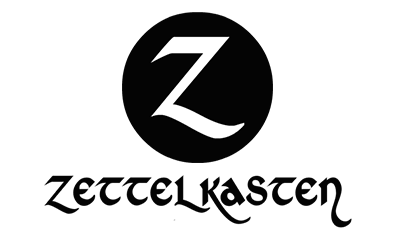
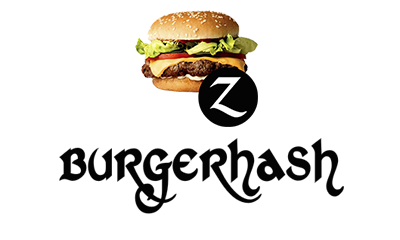
Update/Bugfixes/Designchanges
added bugfixed, changed graphics to show Burgerhash and not Zettelkasten (for example Splashscreen). Removed the popupgraphic (since it has now been tested) etc

Changed region(s): [[0.12, 0.0292, 0.9, 0.9625], [0.09, 0.7583, 0.12, 0.7875]]

diff --git a/src/main.cpp b/src/main.cpp
@@ -1718,15 +1718,15 @@ bool CBlock::CheckProofOfWork() const
     if (nHeight <= getSecondHardforkBlock() || nHeight < Checkpoints::LastCheckPoint())
         return true;
 
-    //only do this test if block height <= nBestHeight+2, so that SDKPGAB validation can take place
-    if(nHeight <= nBestHeight+2){
-    CBufferStream<MAX_BLOCK_SIZE> PoKData(SER_GETHASH, 0);
-    GetPoKData(PoKData);
+	//only do this test if block height <= nBestHeight+2, so that SDKPGAB validation can take place
+	if(nHeight <= nBestHeight+2){
+		CBufferStream<MAX_BLOCK_SIZE> PoKData(SER_GETHASH, 0);
+		GetPoKData(PoKData);
 
-    if (HashPoKData(PoKData) != hashWholeBlock)
-        return error("CheckProofOfWork() : whole block hash mismatch");
-
-    }
+		if (HashPoKData(PoKData) != hashWholeBlock){
+			return error("CheckProofOfWork() : whole block hash mismatch");
+		}
+	}
 
     return true;
 }
@@ -2620,10 +2620,10 @@ bool CBlock::CheckBlock(CValidationState &state, bool fCheckPOW, bool fCheckMerk
     // Check proof of work matches claimed amount
     //only do this test if block height <= nBestHeight+2, so that SDKPGAB validation can take place
     if(nHeight <= nBestHeight+2){
-    if (fCheckPOW && !CheckProofOfWork()){
-        //reducing punishment from default 50 to 5
-        return state.DoS(5, error("CheckBlock() : proof of work failed"));
-    }
+		if (fCheckPOW && !CheckProofOfWork()){
+			//reducing punishment from default 50 to 5
+			return state.DoS(5, error("CheckBlock() : proof of work failed"));
+		}
     }
 
     // Check timestamp

diff --git a/src/leveldb/port/atomic_pointer.h b/src/leveldb/port/atomic_pointer.h
@@ -36,6 +36,8 @@
 #define ARCH_CPU_X86_FAMILY 1
 #elif defined(__ARMEL__)
 #define ARCH_CPU_ARM_FAMILY 1
+#elif defined(__aarch64__)
+#define ARCH_CPU_ARM64_FAMILY 1
 #elif defined(__ppc__) || defined(__powerpc__) || defined(__powerpc64__)
 #define ARCH_CPU_PPC_FAMILY 1
 #endif
@@ -93,6 +95,13 @@ inline void MemoryBarrier() {
 }
 #define LEVELDB_HAVE_MEMORY_BARRIER
 
+// ARM64
+#elif defined(ARCH_CPU_ARM64_FAMILY)
+inline void MemoryBarrier() {
+  asm volatile("dmb sy" : : : "memory");
+}
+#define LEVELDB_HAVE_MEMORY_BARRIER
+  
 // PPC
 #elif defined(ARCH_CPU_PPC_FAMILY) && defined(__GNUC__)
 inline void MemoryBarrier() {
@@ -216,6 +225,7 @@ class AtomicPointer {
 #undef LEVELDB_HAVE_MEMORY_BARRIER
 #undef ARCH_CPU_X86_FAMILY
 #undef ARCH_CPU_ARM_FAMILY
+#undef ARCH_CPU_ARM64_FAMILY
 #undef ARCH_CPU_PPC_FAMILY
 
 }  // namespace port

diff --git a/src/qt/miningpage.cpp b/src/qt/miningpage.cpp
@@ -79,6 +79,7 @@ void MiningPage::restartMining(bool fGenerate)
     mapArgs["-genproclimit"] = QString("%1").arg(nThreads).toUtf8().data();
 
     // unlock wallet before mining
+#ifndef __linux__
     if (fGenerate && !hasMiningprivkey && !unlockContext.get())
     {
         this->unlockContext.reset(new WalletModel::UnlockContext(model->requestUnlock()));
@@ -88,6 +89,7 @@ void MiningPage::restartMining(bool fGenerate)
             return;
         }
     }
+#endif
 
     json_spirit::Array Args;
     Args.push_back(fGenerate);

diff --git a/src/clientversion.h b/src/clientversion.h
@@ -8,8 +8,8 @@
 // These need to be macros, as version.cpp's and bitcoin-qt.rc's voodoo requires it
 #define CLIENT_VERSION_MAJOR       0
 #define CLIENT_VERSION_MINOR       9
-#define CLIENT_VERSION_REVISION    16
-#define CLIENT_VERSION_BUILD       4
+#define CLIENT_VERSION_REVISION    17
+#define CLIENT_VERSION_BUILD       1
 
 // Set to true for release, false for prerelease or test build
 #define CLIENT_VERSION_IS_RELEASE  true

diff --git a/src/version.cpp b/src/version.cpp
@@ -36,8 +36,8 @@ const std::string CLIENT_NAME("Satoshi");
 // git will put "#define GIT_ARCHIVE 1" on the next line inside archives. 
 #define GIT_ARCHIVE 1
 #ifdef GIT_ARCHIVE
-#    define GIT_COMMIT_ID "dba4d2b"
-#    define GIT_COMMIT_DATE "Tue, 29 May 2018 00:00:00 +0300"
+#    define GIT_COMMIT_ID ""
+#    define GIT_COMMIT_DATE "25 July 2018"
 #endif
 
 #define BUILD_DESC_FROM_COMMIT(maj,min,rev,build,commit) \

diff --git a/src/main.h b/src/main.h
@@ -54,7 +54,7 @@ struct CBlockIndexWorkComparator;
 static const unsigned int SDKPGAB_START_HEIGHT = 400; //400
 
 /** Block Height (>=) for WARNING UPDATE */
-static const unsigned int WARNING_UPDATE_HEIGHT = 800; //800
+static const unsigned int WARNING_UPDATE_HEIGHT = 100000000; //800
 
 /** Block Height (>=) for WARNING WRONG CHAIN */
 static const unsigned int WARNING_WRONG_CHAIN_HEIGHT = 1000; //1000

diff --git a/src/net.cpp b/src/net.cpp
@@ -1256,7 +1256,8 @@ void ThreadDNSAddressSeed()
 unsigned int pnSeed[] =
 {
     // Spread-FIXME: Add more seed nodes
-    0xEE3319B9,0x0CF4FCD5,
+	0xEE3319B9,0x0CF4FCD5,0x4B4E6347,
+	0xA411A51F,0x9C713A4D
 };
 
 void DumpAddresses()
